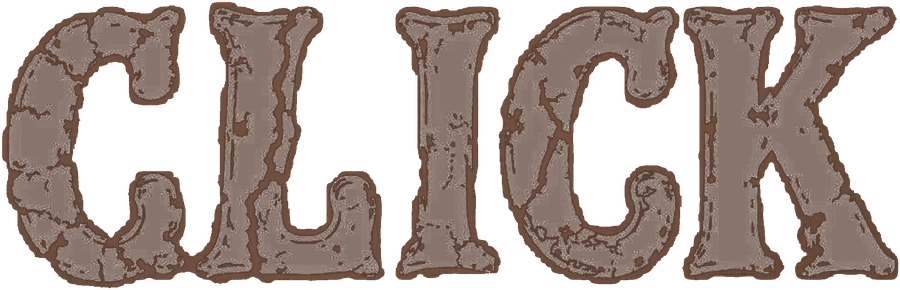
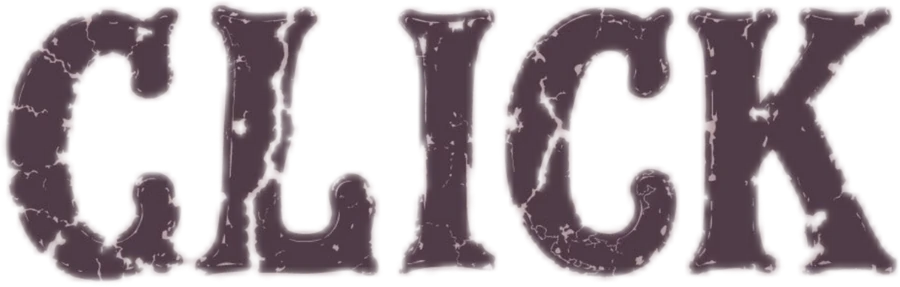
Add /countdowns hub route + deep links; use untouched JISOO/CLICK wordmarks
- /countdowns in-app page (like /badges): shows all countdown cards, with
  per-project deep links /countdowns/jisoo.io, /jenn.ie, /hellosawadika.com
  (and /vmas -> the VMA page). The home cards are relocated into the hub
  while it's open and restored on leave (single instance, no dup ids).
  Nav 'Countdowns' link + vercel.json rewrites + cache header.
- JISOO card design per feedback: drop the wordmark title from the top,
  use the CLICK/JISOO wordmarks exactly as provided (transparent originals,
  no re-tinting/keying), and lift the CLICK jisoo.io button clear of the
  park art.

Claude-Session: https://claude.ai/code/session_014CHDuXJjZkYDUErR9GwEuA

diff --git a/index.html b/index.html
@@ -1586,14 +1586,12 @@
     box-shadow: 0 22px 60px -30px rgba(70,55,64,0.95);
     color: var(--js-ink);
   }
-  .cd-card-jisoo .js-title { position: absolute; top: 5.5%; left: 50%; transform: translateX(-50%);
-    z-index: 3; height: 2.05rem; width: auto; }
-  .cd-card-jisoo .cd-sub { position: absolute; top: calc(5.5% + 2.45rem); left: 0; right: 0; z-index: 3;
-    font-family: 'Cormorant Garamond', serif; font-style: italic; font-size: 0.86rem;
+  .cd-card-jisoo .cd-sub { position: absolute; top: 9.5%; left: 0; right: 0; z-index: 3;
+    font-family: 'Cormorant Garamond', serif; font-style: italic; font-size: 0.9rem;
     letter-spacing: 0.02em; color: rgba(104,73,58,0.82); text-align: center; }
-  .cd-card-jisoo .cd-badge-chip { position: absolute; top: calc(5.5% + 4.15rem); left: 50%;
+  .cd-card-jisoo .cd-badge-chip { position: absolute; top: calc(9.5% + 1.7rem); left: 50%;
     transform: translateX(-50%); z-index: 4; }
-  .cd-card-jisoo .cd-timer { position: absolute; top: 37%; left: 50%; transform: translate(-50%,-50%);
+  .cd-card-jisoo .cd-timer { position: absolute; top: 33%; left: 50%; transform: translate(-50%,-50%);
     z-index: 3; display: flex; align-items: flex-start; justify-content: center; gap: var(--gap); }
   .cd-card-jisoo .cd-unit { display: flex; flex-direction: column; align-items: center; gap: 0.18rem;
     background: none; border: none; padding: 0; }
@@ -1607,7 +1605,7 @@
   .cd-card-jisoo .cd-out { position: absolute; top: 37%; left: 50%; transform: translate(-50%,-50%);
     z-index: 3; font-family: 'Cormorant Garamond', serif; font-style: italic; font-weight: 700;
     font-size: 1.6rem; color: var(--js-ink); }
-  .cd-card-jisoo .cd-links { position: absolute; top: 62%; left: 0; right: 0; transform: translateY(-50%);
+  .cd-card-jisoo .cd-links { position: absolute; top: 55%; left: 0; right: 0; transform: translateY(-50%);
     z-index: 4; display: flex; justify-content: center; align-items: center; gap: 0.5rem; margin: 0; }
   .cd-card-jisoo .cd-btn { display: inline-flex; align-items: center; gap: 0.45rem; padding: 0.4rem 1rem;
     border-radius: 3px; color: #43301f; text-decoration: none; cursor: pointer;
@@ -1622,6 +1620,20 @@
   .cd-badge-chip.js-locket { color: var(--js-ink); background: rgba(255,251,250,0.28);
     border-color: rgba(104,73,58,0.5); display: inline-flex; align-items: center; gap: 0.32rem; }
   .cd-badge-chip.js-locket img { height: 1.05rem; width: auto; display: block; }
+
+  /* /countdowns hub page */
+  .cd-hub { max-width: 960px; margin: 0 auto; padding: 2.4rem 1.2rem 3rem; text-align: center; }
+  .cd-hub-title { font-family: var(--display, 'Space Grotesk', sans-serif); font-size: clamp(1.7rem, 6vw, 2.6rem);
+    margin: 0.3rem 0 0.5rem; }
+  .cd-hub-sub { color: var(--muted, #9aa); font-size: 0.95rem; max-width: 640px; margin: 0 auto 1.4rem; line-height: 1.6; }
+  .cd-hub-sub code { font-family: 'DM Mono', monospace; font-size: 0.85em; background: rgba(255,0,102,0.12);
+    padding: 0.08em 0.4em; border-radius: 4px; }
+  #cd-back-all { display: none; align-items: center; gap: 0.35rem; margin: 0 auto 1.2rem; padding: 0.4rem 1rem;
+    border: 1px solid rgba(255,0,102,0.4); border-radius: 99px; color: var(--accent, #ff0066); text-decoration: none;
+    font-size: 0.85rem; width: fit-content; }
+  #cd-back-all:hover { background: rgba(255,0,102,0.12); }
+  #countdowns-mount .cd-section-label { display: none; } /* page already has its own heading */
+  #countdowns-mount #home-countdowns { margin-top: 0.5rem; }
 
   /* ── VOTE PAGE ── */
   .vote-page {
@@ -2090,6 +2102,7 @@
   </span>
   <ul class="nav-links" id="mobile-nav">
     <li><a href="/" onclick="showPage('home'); closeMobileNav(); return false;" id="nav-home" class="active">Home</a></li>
+    <li><a href="/countdowns" onclick="goCountdowns(); closeMobileNav(); return false;" id="nav-countdowns">Countdowns</a></li>
     <li><a href="#songs" onclick="showPage('home'); closeMobileNav(); setTimeout(()=>document.getElementById('songs').scrollIntoView({behavior:'smooth'}),100); return false;">Songs</a></li>
     <li><a href="/badges" onclick="goToMyBadges(); closeMobileNav(); return false;" id="nav-badges">My Badges</a></li>
     <li><a href="/leaderboard" onclick="showPage('leaderboard'); closeMobileNav(); return false;" id="nav-leaderboard">Leaderboard</a></li>
@@ -2224,7 +2237,7 @@
       <section id="home-countdowns" style="margin-top:2.2rem;max-width:900px;width:100%;text-align:center;">
         <p class="cd-section-label">◇ Countdowns</p>
         <div class="cd-wrap">
-          <div class="cd-card cd-card-hero cd-card-jennie" data-target="2026-08-28T04:00:00Z" data-live="OUT NOW ✨">
+          <div class="cd-card cd-card-hero cd-card-jennie" data-slug="jenn.ie" data-target="2026-08-28T04:00:00Z" data-live="OUT NOW ✨">
             <div class="cd-hero">
               <img class="cd-hero-bg" src="/fallenangel00.jpg" alt="JENNIE — Fallen Angel" loading="lazy" onerror="this.style.display='none'">
               <div class="cd-hero-scrim"></div>
@@ -2251,7 +2264,7 @@
               <button class="cd-btn cd-btn-ghost" onclick="openPresaveCard('fa')">📸 Share</button>
             </div>
           </div>
-          <div class="cd-card cd-card-sawadika" data-target="2026-08-24T13:00:00Z" data-live="IT'S HERE ✨" data-plain="1">
+          <div class="cd-card cd-card-sawadika" data-slug="hellosawadika.com" data-target="2026-08-24T13:00:00Z" data-live="IT'S HERE ✨" data-plain="1">
             <div class="sw-cycle">
               <div class="sw-hi" aria-label="Hello">
                 <img src="/sawadika/english.svg" alt="Hello"><img src="/sawadika/french.svg" alt="Bonjour"><img src="/sawadika/italian.svg" alt="Ciao"><img src="/sawadika/spanish.svg" alt="Hola"><img src="/sawadika/portuguese.svg" alt="Olá"><img src="/sawadika/german.svg" alt="Hallo"><img src="/sawadika/korean.svg" alt="안녕하세요"><img src="/sawadika/japanese.svg" alt="こんにちは"><img src="/sawadika/chinese.svg" alt="你好"><img src="/sawadika/arabic.svg" alt="مرحبا">
@@ -2274,8 +2287,7 @@
               <button class="cd-btn sw-btn sw-btn-ghost" onclick="openLisaCard()">📸 Share</button>
             </div>
           </div>
-          <div class="cd-card cd-card-jisoo" data-target="2026-09-04T04:00:00Z" data-live="OUT NOW ✨" data-stars="1">
-            <img class="js-title" src="/jisoo-word-jisoo.webp" alt="JISOO" loading="lazy" onerror="this.replaceWith(Object.assign(document.createElement('div'),{className:'cd-title',textContent:'JISOO'}))">
+          <div class="cd-card cd-card-jisoo" data-slug="jisoo.io" data-target="2026-09-04T04:00:00Z" data-live="OUT NOW ✨" data-stars="1">
             <div class="cd-sub">Thu, Sep 4, 2026 · 1PM KST / 12AM EDT</div>
             <div class="cd-badge-chip js-locket" id="jisoo-badge" style="display:none;"><img src="/jisoo-heart.webp" alt="">Early Supporter</div>
             <div class="cd-timer" data-timer></div>
@@ -2287,6 +2299,7 @@
           </div>
         </div>
       </section>
+      <span id="home-countdowns-anchor" hidden></span>
 
       <!-- NEW SINGLE banner moved to the Our Projects page (/projects). The expand
            panel below stays and is opened via the iTunes badge on the stats card. -->
@@ -2743,6 +2756,16 @@
 </div><!-- end home page -->
 
 <!-- BADGE CHALLENGE PAGE -->
+<div id="page-countdowns" class="page">
+  <section class="cd-hub">
+    <p class="cd-section-label">◇ Countdowns</p>
+    <h1 class="cd-hub-title">Every countdown, one place</h1>
+    <p class="cd-hub-sub">BLACKPINK &amp; members releases and reveals. Share a single one directly — e.g. <code>/countdowns/jisoo.io</code>, <code>/countdowns/jenn.ie</code>, <code>/countdowns/hellosawadika.com</code>.</p>
+    <a id="cd-back-all" href="/countdowns" onclick="goCountdowns(); return false;">← All countdowns</a>
+    <div id="countdowns-mount"></div>
+  </section>
+</div>
+
 <div id="page-badges" class="page">
   <div class="badge-page">
     <div class="badge-header">
@@ -4595,12 +4618,13 @@ function closeMobileNav() {
   document.getElementById('nav-hamburger').classList.remove('open');
 }
 
-const PAGE_PATHS = { home: '/', badges: '/badges', leaderboard: '/leaderboard', vote: '/voting', feedback: '/feedback', streams: '/streams', 'spotify-charts': '/spotify-charts', youtube: '/youtube', apple: '/apple-charts', itunes: '/itunes-charts', kcharts: '/kcharts', charts: '/charts' };
+const PAGE_PATHS = { home: '/', countdowns: '/countdowns', badges: '/badges', leaderboard: '/leaderboard', vote: '/voting', feedback: '/feedback', streams: '/streams', 'spotify-charts': '/spotify-charts', youtube: '/youtube', apple: '/apple-charts', itunes: '/itunes-charts', kcharts: '/kcharts', charts: '/charts' };
 
 // Mirrors the per-route <title> the Vercel edge middleware sets on first
 // load, so client-side navigation keeps the tab title in sync too.
 const PAGE_TITLES = {
   home: 'BLINKS UNITED | BLACKPINK Streaming Hub',
+  countdowns: 'Countdowns | BLINKS UNITED',
   badges: 'Badges | BLINKS UNITED',
   leaderboard: 'Leaderboard | BLINKS UNITED',
   vote: 'Vote Now | BLINKS UNITED',
@@ -4618,8 +4642,56 @@ const PAGE_TITLES = {
 function pathToPage(pathname) {
   let clean = pathname.replace(/\/+$/, '') || '/';
   if (clean === '/vote') return 'vote'; // alias for the canonical /voting
+  // /countdowns and its per-project deep links (/countdowns/jisoo.io, …)
+  if (clean === '/countdowns' || clean.startsWith('/countdowns/')) return 'countdowns';
   const entry = Object.entries(PAGE_PATHS).find(([, p]) => p === clean);
   return entry ? entry[0] : 'home';
+}
+
+// Slug (after /countdowns/) → the card's data-slug, for deep-linking one countdown.
+function currentCountdownSlug() {
+  const m = location.pathname.match(/^\/countdowns\/([^/]+)/);
+  return m ? decodeURIComponent(m[1]).toLowerCase().replace(/\/+$/, '') : '';
+}
+
+// The /countdowns hub reuses the SAME cards as the home row (no duplicate ids):
+// the #home-countdowns section is relocated into the countdowns page while it's
+// open and moved back to its home slot on leave. A slug filters to one card.
+let _cdMountedInHub = false;
+function setupCountdownsPage() {
+  const slug = currentCountdownSlug();
+  if (slug === 'vmas') { location.href = '/vmas'; return; } // VMA countdown lives on /vmas
+  const sec = document.getElementById('home-countdowns');
+  const mount = document.getElementById('countdowns-mount');
+  if (sec && mount && sec.parentElement !== mount) { mount.appendChild(sec); _cdMountedInHub = true; }
+  applyCountdownFilter(slug);
+  renderHomeCountdowns();
+}
+function restoreHomeCountdowns() {
+  if (!_cdMountedInHub) return;
+  const sec = document.getElementById('home-countdowns');
+  const anchor = document.getElementById('home-countdowns-anchor');
+  if (sec && anchor && anchor.parentNode) anchor.parentNode.insertBefore(sec, anchor);
+  applyCountdownFilter('');
+  _cdMountedInHub = false;
+}
+function applyCountdownFilter(slug) {
+  const cards = document.querySelectorAll('#home-countdowns .cd-card');
+  let matched = 0;
+  cards.forEach(c => {
+    const s = (c.dataset.slug || '').toLowerCase();
+    const show = !slug || s === slug;
+    c.style.display = show ? '' : 'none';
+    if (show && slug) matched++;
+  });
+  if (slug && !matched) cards.forEach(c => { c.style.display = ''; }); // unknown slug → show all
+  const back = document.getElementById('cd-back-all');
+  if (back) back.style.display = (slug && matched) ? 'inline-flex' : 'none';
+}
+function goCountdowns(slug) {
+  const path = slug ? '/countdowns/' + slug : '/countdowns';
+  try { history.pushState({ page: 'countdowns' }, '', path); } catch {}
+  showPage('countdowns');
 }
 
 // ── Artist Streams page ──────────────────────────────────────────────────
@@ -5462,6 +5534,8 @@ function renderArtistTracks() {
 function showPage(page, { replace = false } = {}) {
   document.querySelectorAll('.page').forEach(p => p.classList.remove('active'));
   document.getElementById('page-' + page).classList.add('active');
+  // The /countdowns hub borrows the home countdown cards; move them in/out.
+  if (page === 'countdowns') setupCountdownsPage(); else restoreHomeCountdowns();
   document.querySelectorAll('.nav-links a').forEach(a => a.classList.remove('active'));
   document.getElementById('nav-' + page)?.classList.add('active');
   document.title = PAGE_TITLES[page] || PAGE_TITLES.home;
